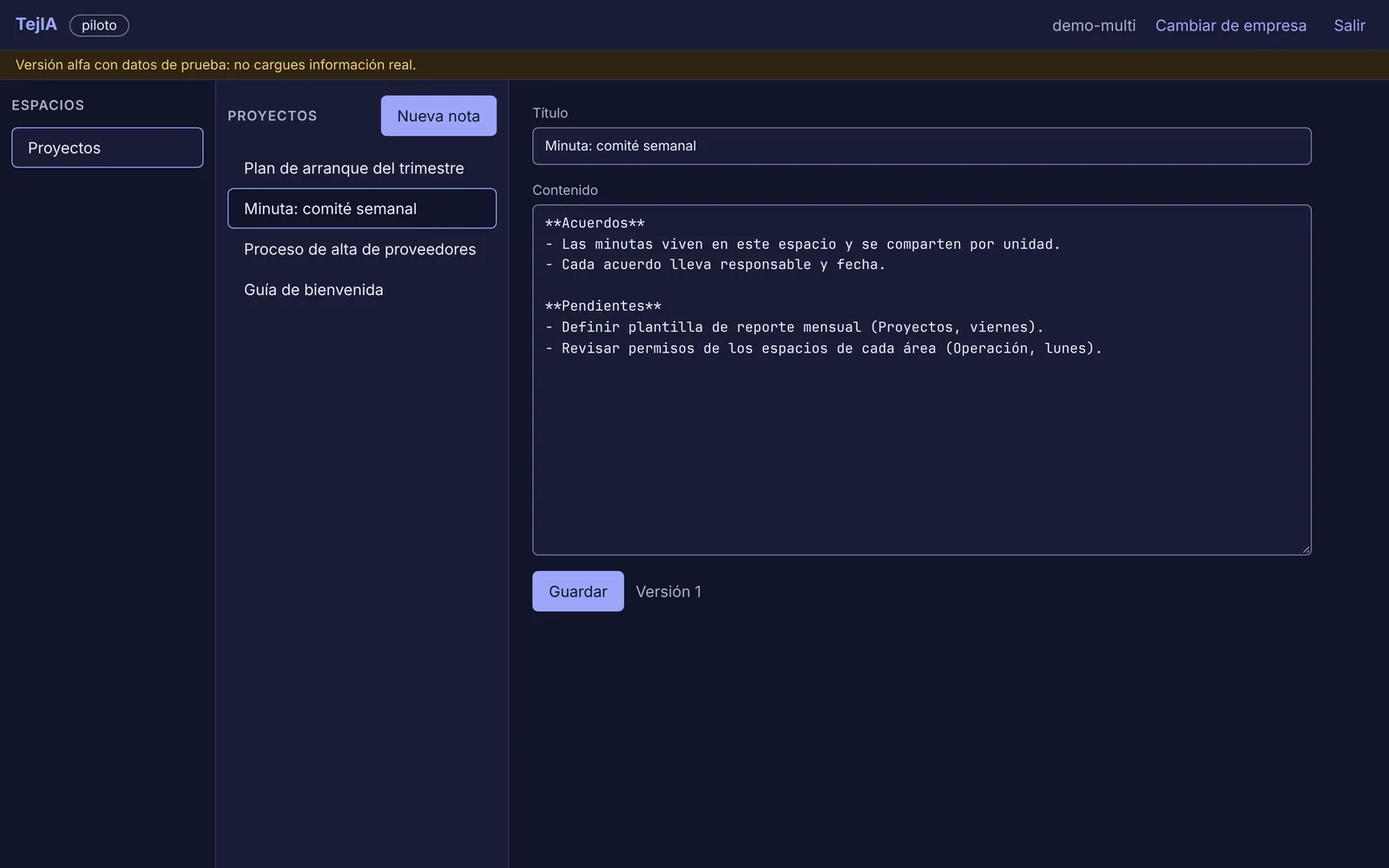
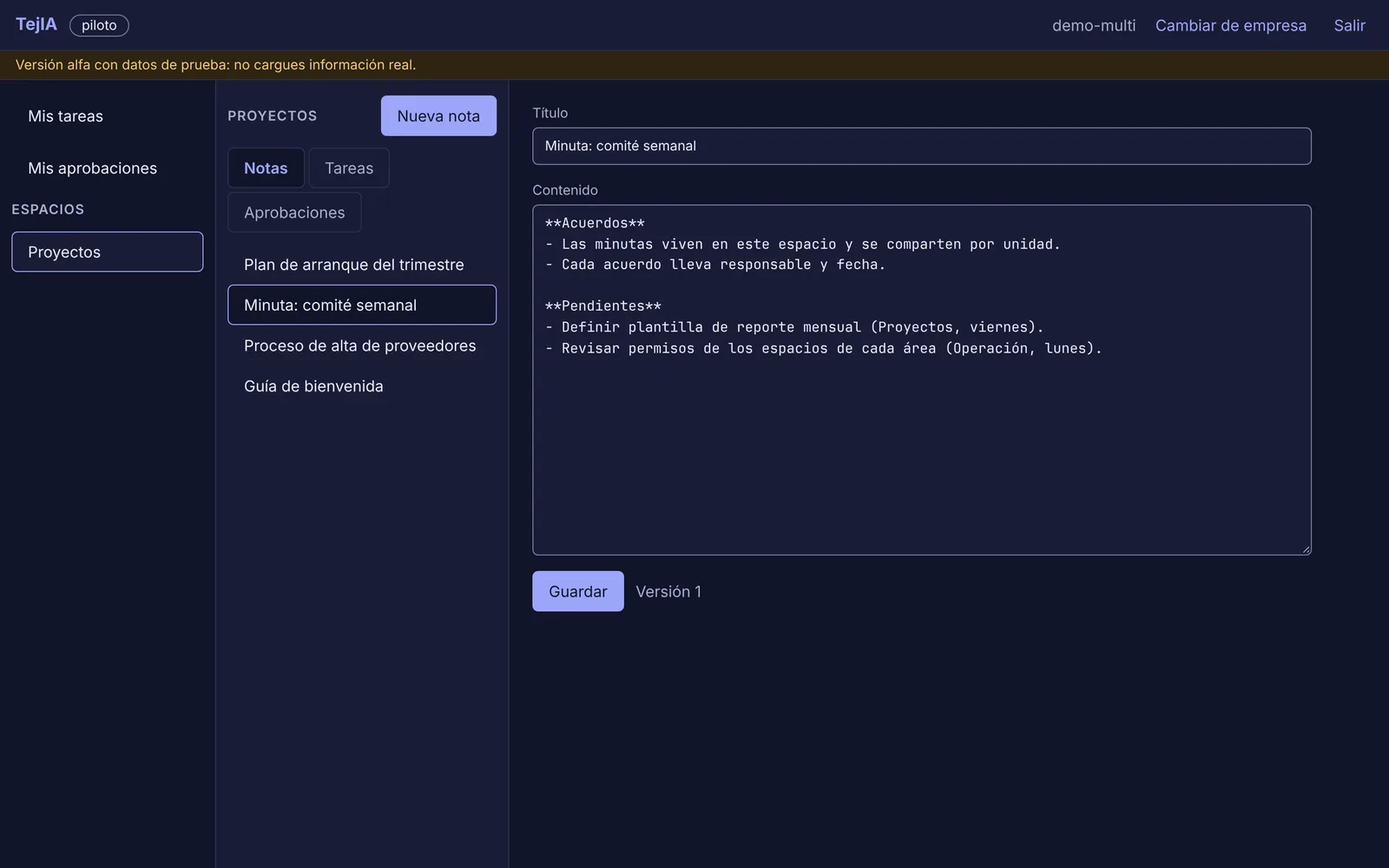
Sitio desde tejia@c48257e

diff --git a/index.html b/index.html
@@ -3,12 +3,12 @@
 <head>
 <meta charset="utf-8">
 <meta name="viewport" content="width=device-width, initial-scale=1">
-<title>TejIA · documentos, conversaciones y decisiones de tu empresa, con un mismo permiso</title>
-<meta name="description" content="TejIA reúne documentos, conversaciones, aprobaciones y datos del equipo bajo los mismos permisos. En alfa: notas con permisos por persona, grupo y unidad, en la computadora y el celular.">
+<title>TejIA · documentos, tareas, aprobaciones y personas de tu empresa, con un mismo permiso</title>
+<meta name="description" content="TejIA reúne documentos, tareas, aprobaciones y personas del equipo bajo los mismos permisos. En alfa: notas, tareas, aprobaciones en orden y directorio con nombres, en la computadora y el celular.">
 <meta name="theme-color" content="#2E3A8C">
 <meta property="og:title" content="TejIA">
-<meta property="og:description" content="Documentos, conversaciones, aprobaciones y datos de tu empresa, con un mismo permiso.">
-<meta property="og:image" content="https://tejia.mx/img/escritorio.webp">
+<meta property="og:description" content="Documentos, tareas, aprobaciones y personas de tu empresa, con un mismo permiso.">
+<meta property="og:image" content="https://tejia.mx/img/escritorio-aprobaciones.webp">
 <meta property="og:url" content="https://tejia.mx/">
 <meta http-equiv="Content-Security-Policy" content="default-src 'self'; img-src 'self'; style-src 'self'; script-src 'none'; base-uri 'none'; form-action 'none'">
 <meta name="referrer" content="no-referrer">
@@ -21,7 +21,7 @@
 <header class="barra">
   <a class="marca" href="./"><img src="img/tejia.svg" alt="" width="28" height="28"> TejIA</a>
   <nav aria-label="Secciones">
-    <a href="#hoy">Hoy</a><a href="#despues">Lo que sigue</a><a href="#cuidado">Tu información</a><a href="#descarga">Dónde se usa</a>
+    <a href="#hoy">Lo que ya funciona</a><a href="#despues">Lo que sigue</a><a href="#cuidado">Tu información</a><a href="#descarga">Dónde se usa</a>
   </nav>
 </header>
 
@@ -30,71 +30,83 @@
   <div class="portada-texto">
     <p class="ceja">Suite de trabajo · hecha en México</p>
     <h1>Tu empresa, <em>tejida</em> en un solo lugar.</h1>
-    <p class="entrada">TejIA reúne documentos, conversaciones, aprobaciones y datos del equipo bajo los mismos permisos. Lo que compartes en un lugar se respeta en todos; lo que retiras deja de verse en la siguiente consulta.</p>
-    <p class="estado"><span class="sello">Alfa</span> Hoy funciona la base: notas con permisos por persona, grupo y unidad, en la computadora y el celular. Hoy es de uso interno, en prueba; todavía no hay servicio abierto.</p>
+    <p class="entrada">TejIA reúne los documentos, las tareas, las aprobaciones y las personas de tu equipo bajo los mismos permisos. Lo que compartes en un lugar se respeta en todos, y en cuanto le quitas el acceso a alguien, deja de verlo.</p>
+    <p class="estado"><span class="sello">Alfa</span> Hoy funcionan notas, tareas, aprobaciones paso a paso y el directorio de la empresa, en la computadora y el celular. Es de uso interno, en prueba; todavía no hay servicio abierto.</p>
   </div>
-  <svg class="telar" viewBox="0 0 560 330" role="img" aria-labelledby="telar-t telar-d"><title id="telar-t">Telar de TejIA</title><desc id="telar-d">Cinco hilos horizontales, uno por área (documentos, conversaciones, aprobaciones, datos y personas), entretejidos con hilos verticales de permisos que pasan por encima y por debajo de todos.</desc>
-<text x="136" y="45" text-anchor="end" class="telar-etiqueta">Documentos</text>
-<line x1="150" y1="40" x2="540" y2="40" stroke="#2A6E8A" class="urdimbre"/>
-<text x="136" y="105" text-anchor="end" class="telar-etiqueta">Conversaciones</text>
-<line x1="150" y1="100" x2="540" y2="100" stroke="#B3244A" class="urdimbre"/>
-<text x="136" y="165" text-anchor="end" class="telar-etiqueta">Aprobaciones</text>
-<line x1="150" y1="160" x2="540" y2="160" stroke="#9A6410" class="urdimbre"/>
-<text x="136" y="225" text-anchor="end" class="telar-etiqueta">Datos</text>
-<line x1="150" y1="220" x2="540" y2="220" stroke="#3F7354" class="urdimbre"/>
-<text x="136" y="285" text-anchor="end" class="telar-etiqueta">Personas</text>
-<line x1="150" y1="280" x2="540" y2="280" stroke="#6A4C9C" class="urdimbre"/>
-<line x1="180" y1="14" x2="180" y2="306" class="trama t0"/>
-<line x1="232" y1="14" x2="232" y2="306" class="trama t1"/>
-<line x1="284" y1="14" x2="284" y2="306" class="trama t2"/>
-<line x1="336" y1="14" x2="336" y2="306" class="trama t3"/>
-<line x1="388" y1="14" x2="388" y2="306" class="trama t4"/>
-<line x1="440" y1="14" x2="440" y2="306" class="trama t5"/>
-<line x1="492" y1="14" x2="492" y2="306" class="trama t6"/>
-<line x1="544" y1="14" x2="544" y2="306" class="trama t7"/>
+  <svg class="telar" viewBox="0 0 560 362" role="img" aria-labelledby="telar-t telar-d"><title id="telar-t">Telar de TejIA</title><desc id="telar-d">Seis hilos horizontales, uno por área, cruzados por hilos verticales: los permisos. Documentos, tareas, aprobaciones y personas ya están entretejidos con los hilos verticales de permisos; conversaciones y datos todavía pasan sueltos por debajo, punteados: están por tejerse.</desc>
+<text x="136" y="39" text-anchor="end" class="telar-etiqueta">Documentos</text>
+<line x1="150" y1="34" x2="540" y2="34" stroke="#2A6E8A" class="urdimbre"/>
+<text x="136" y="89" text-anchor="end" class="telar-etiqueta">Tareas</text>
+<line x1="150" y1="84" x2="540" y2="84" stroke="#2E3A8C" class="urdimbre"/>
+<text x="136" y="139" text-anchor="end" class="telar-etiqueta">Aprobaciones</text>
+<line x1="150" y1="134" x2="540" y2="134" stroke="#9A6410" class="urdimbre"/>
+<text x="136" y="189" text-anchor="end" class="telar-etiqueta">Personas</text>
+<line x1="150" y1="184" x2="540" y2="184" stroke="#6A4C9C" class="urdimbre"/>
+<text x="136" y="239" text-anchor="end" class="telar-etiqueta por-tejer">Conversaciones</text>
+<line x1="150" y1="234" x2="540" y2="234" stroke="#B3244A" class="urdimbre suelta"/>
+<text x="136" y="289" text-anchor="end" class="telar-etiqueta por-tejer">Datos</text>
+<line x1="150" y1="284" x2="540" y2="284" stroke="#3F7354" class="urdimbre suelta"/>
+<line x1="180" y1="12" x2="180" y2="306" class="trama t0"/>
+<line x1="232" y1="12" x2="232" y2="306" class="trama t1"/>
+<line x1="284" y1="12" x2="284" y2="306" class="trama t2"/>
+<line x1="336" y1="12" x2="336" y2="306" class="trama t3"/>
+<line x1="388" y1="12" x2="388" y2="306" class="trama t4"/>
+<line x1="440" y1="12" x2="440" y2="306" class="trama t5"/>
+<line x1="492" y1="12" x2="492" y2="306" class="trama t6"/>
+<line x1="544" y1="12" x2="544" y2="306" class="trama t7"/>
+<text x="362" y="8" text-anchor="middle" class="telar-etiqueta telar-permisos">permisos ↓</text>
 <g class="cruces">
-<line x1="169" y1="40" x2="191" y2="40" class="halo-h"/><line x1="169" y1="40" x2="191" y2="40" stroke="#2A6E8A" class="urdimbre"/>
-<line x1="232" y1="29" x2="232" y2="51" class="halo-v"/><line x1="232" y1="29" x2="232" y2="51" class="trama-cruce"/>
-<line x1="273" y1="40" x2="295" y2="40" class="halo-h"/><line x1="273" y1="40" x2="295" y2="40" stroke="#2A6E8A" class="urdimbre"/>
-<line x1="336" y1="29" x2="336" y2="51" class="halo-v"/><line x1="336" y1="29" x2="336" y2="51" class="trama-cruce"/>
-<line x1="377" y1="40" x2="399" y2="40" class="halo-h"/><line x1="377" y1="40" x2="399" y2="40" stroke="#2A6E8A" class="urdimbre"/>
-<line x1="440" y1="29" x2="440" y2="51" class="halo-v"/><line x1="440" y1="29" x2="440" y2="51" class="trama-cruce"/>
-<line x1="481" y1="40" x2="503" y2="40" class="halo-h"/><line x1="481" y1="40" x2="503" y2="40" stroke="#2A6E8A" class="urdimbre"/>
-<line x1="544" y1="29" x2="544" y2="51" class="halo-v"/><line x1="544" y1="29" x2="544" y2="51" class="trama-cruce"/>
-<line x1="180" y1="89" x2="180" y2="111" class="halo-v"/><line x1="180" y1="89" x2="180" y2="111" class="trama-cruce"/>
-<line x1="221" y1="100" x2="243" y2="100" class="halo-h"/><line x1="221" y1="100" x2="243" y2="100" stroke="#B3244A" class="urdimbre"/>
-<line x1="284" y1="89" x2="284" y2="111" class="halo-v"/><line x1="284" y1="89" x2="284" y2="111" class="trama-cruce"/>
-<line x1="325" y1="100" x2="347" y2="100" class="halo-h"/><line x1="325" y1="100" x2="347" y2="100" stroke="#B3244A" class="urdimbre"/>
-<line x1="388" y1="89" x2="388" y2="111" class="halo-v"/><line x1="388" y1="89" x2="388" y2="111" class="trama-cruce"/>
-<line x1="429" y1="100" x2="451" y2="100" class="halo-h"/><line x1="429" y1="100" x2="451" y2="100" stroke="#B3244A" class="urdimbre"/>
-<line x1="492" y1="89" x2="492" y2="111" class="halo-v"/><line x1="492" y1="89" x2="492" y2="111" class="trama-cruce"/>
-<line x1="533" y1="100" x2="555" y2="100" class="halo-h"/><line x1="533" y1="100" x2="555" y2="100" stroke="#B3244A" class="urdimbre"/>
-<line x1="169" y1="160" x2="191" y2="160" class="halo-h"/><line x1="169" y1="160" x2="191" y2="160" stroke="#9A6410" class="urdimbre"/>
-<line x1="232" y1="149" x2="232" y2="171" class="halo-v"/><line x1="232" y1="149" x2="232" y2="171" class="trama-cruce"/>
-<line x1="273" y1="160" x2="295" y2="160" class="halo-h"/><line x1="273" y1="160" x2="295" y2="160" stroke="#9A6410" class="urdimbre"/>
-<line x1="336" y1="149" x2="336" y2="171" class="halo-v"/><line x1="336" y1="149" x2="336" y2="171" class="trama-cruce"/>
-<line x1="377" y1="160" x2="399" y2="160" class="halo-h"/><line x1="377" y1="160" x2="399" y2="160" stroke="#9A6410" class="urdimbre"/>
-<line x1="440" y1="149" x2="440" y2="171" class="halo-v"/><line x1="440" y1="149" x2="440" y2="171" class="trama-cruce"/>
-<line x1="481" y1="160" x2="503" y2="160" class="halo-h"/><line x1="481" y1="160" x2="503" y2="160" stroke="#9A6410" class="urdimbre"/>
-<line x1="544" y1="149" x2="544" y2="171" class="halo-v"/><line x1="544" y1="149" x2="544" y2="171" class="trama-cruce"/>
-<line x1="180" y1="209" x2="180" y2="231" class="halo-v"/><line x1="180" y1="209" x2="180" y2="231" class="trama-cruce"/>
-<line x1="221" y1="220" x2="243" y2="220" class="halo-h"/><line x1="221" y1="220" x2="243" y2="220" stroke="#3F7354" class="urdimbre"/>
-<line x1="284" y1="209" x2="284" y2="231" class="halo-v"/><line x1="284" y1="209" x2="284" y2="231" class="trama-cruce"/>
-<line x1="325" y1="220" x2="347" y2="220" class="halo-h"/><line x1="325" y1="220" x2="347" y2="220" stroke="#3F7354" class="urdimbre"/>
-<line x1="388" y1="209" x2="388" y2="231" class="halo-v"/><line x1="388" y1="209" x2="388" y2="231" class="trama-cruce"/>
-<line x1="429" y1="220" x2="451" y2="220" class="halo-h"/><line x1="429" y1="220" x2="451" y2="220" stroke="#3F7354" class="urdimbre"/>
-<line x1="492" y1="209" x2="492" y2="231" class="halo-v"/><line x1="492" y1="209" x2="492" y2="231" class="trama-cruce"/>
-<line x1="533" y1="220" x2="555" y2="220" class="halo-h"/><line x1="533" y1="220" x2="555" y2="220" stroke="#3F7354" class="urdimbre"/>
-<line x1="169" y1="280" x2="191" y2="280" class="halo-h"/><line x1="169" y1="280" x2="191" y2="280" stroke="#6A4C9C" class="urdimbre"/>
-<line x1="232" y1="269" x2="232" y2="291" class="halo-v"/><line x1="232" y1="269" x2="232" y2="291" class="trama-cruce"/>
-<line x1="273" y1="280" x2="295" y2="280" class="halo-h"/><line x1="273" y1="280" x2="295" y2="280" stroke="#6A4C9C" class="urdimbre"/>
-<line x1="336" y1="269" x2="336" y2="291" class="halo-v"/><line x1="336" y1="269" x2="336" y2="291" class="trama-cruce"/>
-<line x1="377" y1="280" x2="399" y2="280" class="halo-h"/><line x1="377" y1="280" x2="399" y2="280" stroke="#6A4C9C" class="urdimbre"/>
-<line x1="440" y1="269" x2="440" y2="291" class="halo-v"/><line x1="440" y1="269" x2="440" y2="291" class="trama-cruce"/>
-<line x1="481" y1="280" x2="503" y2="280" class="halo-h"/><line x1="481" y1="280" x2="503" y2="280" stroke="#6A4C9C" class="urdimbre"/>
-<line x1="544" y1="269" x2="544" y2="291" class="halo-v"/><line x1="544" y1="269" x2="544" y2="291" class="trama-cruce"/>
+<line x1="169" y1="34" x2="191" y2="34" class="halo-h"/><line x1="169" y1="34" x2="191" y2="34" stroke="#2A6E8A" class="urdimbre"/>
+<line x1="232" y1="23" x2="232" y2="45" class="halo-v"/><line x1="232" y1="23" x2="232" y2="45" class="trama-cruce"/>
+<line x1="273" y1="34" x2="295" y2="34" class="halo-h"/><line x1="273" y1="34" x2="295" y2="34" stroke="#2A6E8A" class="urdimbre"/>
+<line x1="336" y1="23" x2="336" y2="45" class="halo-v"/><line x1="336" y1="23" x2="336" y2="45" class="trama-cruce"/>
+<line x1="377" y1="34" x2="399" y2="34" class="halo-h"/><line x1="377" y1="34" x2="399" y2="34" stroke="#2A6E8A" class="urdimbre"/>
+<line x1="440" y1="23" x2="440" y2="45" class="halo-v"/><line x1="440" y1="23" x2="440" y2="45" class="trama-cruce"/>
+<line x1="481" y1="34" x2="503" y2="34" class="halo-h"/><line x1="481" y1="34" x2="503" y2="34" stroke="#2A6E8A" class="urdimbre"/>
+<line x1="544" y1="23" x2="544" y2="45" class="halo-v"/><line x1="544" y1="23" x2="544" y2="45" class="trama-cruce"/>
+<line x1="180" y1="73" x2="180" y2="95" class="halo-v"/><line x1="180" y1="73" x2="180" y2="95" class="trama-cruce"/>
+<line x1="221" y1="84" x2="243" y2="84" class="halo-h"/><line x1="221" y1="84" x2="243" y2="84" stroke="#2E3A8C" class="urdimbre"/>
+<line x1="284" y1="73" x2="284" y2="95" class="halo-v"/><line x1="284" y1="73" x2="284" y2="95" class="trama-cruce"/>
+<line x1="325" y1="84" x2="347" y2="84" class="halo-h"/><line x1="325" y1="84" x2="347" y2="84" stroke="#2E3A8C" class="urdimbre"/>
+<line x1="388" y1="73" x2="388" y2="95" class="halo-v"/><line x1="388" y1="73" x2="388" y2="95" class="trama-cruce"/>
+<line x1="429" y1="84" x2="451" y2="84" class="halo-h"/><line x1="429" y1="84" x2="451" y2="84" stroke="#2E3A8C" class="urdimbre"/>
+<line x1="492" y1="73" x2="492" y2="95" class="halo-v"/><line x1="492" y1="73" x2="492" y2="95" class="trama-cruce"/>
+<line x1="533" y1="84" x2="555" y2="84" class="halo-h"/><line x1="533" y1="84" x2="555" y2="84" stroke="#2E3A8C" class="urdimbre"/>
+<line x1="169" y1="134" x2="191" y2="134" class="halo-h"/><line x1="169" y1="134" x2="191" y2="134" stroke="#9A6410" class="urdimbre"/>
+<line x1="232" y1="123" x2="232" y2="145" class="halo-v"/><line x1="232" y1="123" x2="232" y2="145" class="trama-cruce"/>
+<line x1="273" y1="134" x2="295" y2="134" class="halo-h"/><line x1="273" y1="134" x2="295" y2="134" stroke="#9A6410" class="urdimbre"/>
+<line x1="336" y1="123" x2="336" y2="145" class="halo-v"/><line x1="336" y1="123" x2="336" y2="145" class="trama-cruce"/>
+<line x1="377" y1="134" x2="399" y2="134" class="halo-h"/><line x1="377" y1="134" x2="399" y2="134" stroke="#9A6410" class="urdimbre"/>
+<line x1="440" y1="123" x2="440" y2="145" class="halo-v"/><line x1="440" y1="123" x2="440" y2="145" class="trama-cruce"/>
+<line x1="481" y1="134" x2="503" y2="134" class="halo-h"/><line x1="481" y1="134" x2="503" y2="134" stroke="#9A6410" class="urdimbre"/>
+<line x1="544" y1="123" x2="544" y2="145" class="halo-v"/><line x1="544" y1="123" x2="544" y2="145" class="trama-cruce"/>
+<line x1="180" y1="173" x2="180" y2="195" class="halo-v"/><line x1="180" y1="173" x2="180" y2="195" class="trama-cruce"/>
+<line x1="221" y1="184" x2="243" y2="184" class="halo-h"/><line x1="221" y1="184" x2="243" y2="184" stroke="#6A4C9C" class="urdimbre"/>
+<line x1="284" y1="173" x2="284" y2="195" class="halo-v"/><line x1="284" y1="173" x2="284" y2="195" class="trama-cruce"/>
+<line x1="325" y1="184" x2="347" y2="184" class="halo-h"/><line x1="325" y1="184" x2="347" y2="184" stroke="#6A4C9C" class="urdimbre"/>
+<line x1="388" y1="173" x2="388" y2="195" class="halo-v"/><line x1="388" y1="173" x2="388" y2="195" class="trama-cruce"/>
+<line x1="429" y1="184" x2="451" y2="184" class="halo-h"/><line x1="429" y1="184" x2="451" y2="184" stroke="#6A4C9C" class="urdimbre"/>
+<line x1="492" y1="173" x2="492" y2="195" class="halo-v"/><line x1="492" y1="173" x2="492" y2="195" class="trama-cruce"/>
+<line x1="533" y1="184" x2="555" y2="184" class="halo-h"/><line x1="533" y1="184" x2="555" y2="184" stroke="#6A4C9C" class="urdimbre"/>
+<line x1="180" y1="223" x2="180" y2="245" class="halo-v"/><line x1="180" y1="223" x2="180" y2="245" class="trama-cruce"/>
+<line x1="232" y1="223" x2="232" y2="245" class="halo-v"/><line x1="232" y1="223" x2="232" y2="245" class="trama-cruce"/>
+<line x1="284" y1="223" x2="284" y2="245" class="halo-v"/><line x1="284" y1="223" x2="284" y2="245" class="trama-cruce"/>
+<line x1="336" y1="223" x2="336" y2="245" class="halo-v"/><line x1="336" y1="223" x2="336" y2="245" class="trama-cruce"/>
+<line x1="388" y1="223" x2="388" y2="245" class="halo-v"/><line x1="388" y1="223" x2="388" y2="245" class="trama-cruce"/>
+<line x1="440" y1="223" x2="440" y2="245" class="halo-v"/><line x1="440" y1="223" x2="440" y2="245" class="trama-cruce"/>
+<line x1="492" y1="223" x2="492" y2="245" class="halo-v"/><line x1="492" y1="223" x2="492" y2="245" class="trama-cruce"/>
+<line x1="544" y1="223" x2="544" y2="245" class="halo-v"/><line x1="544" y1="223" x2="544" y2="245" class="trama-cruce"/>
+<line x1="180" y1="273" x2="180" y2="295" class="halo-v"/><line x1="180" y1="273" x2="180" y2="295" class="trama-cruce"/>
+<line x1="232" y1="273" x2="232" y2="295" class="halo-v"/><line x1="232" y1="273" x2="232" y2="295" class="trama-cruce"/>
+<line x1="284" y1="273" x2="284" y2="295" class="halo-v"/><line x1="284" y1="273" x2="284" y2="295" class="trama-cruce"/>
+<line x1="336" y1="273" x2="336" y2="295" class="halo-v"/><line x1="336" y1="273" x2="336" y2="295" class="trama-cruce"/>
+<line x1="388" y1="273" x2="388" y2="295" class="halo-v"/><line x1="388" y1="273" x2="388" y2="295" class="trama-cruce"/>
+<line x1="440" y1="273" x2="440" y2="295" class="halo-v"/><line x1="440" y1="273" x2="440" y2="295" class="trama-cruce"/>
+<line x1="492" y1="273" x2="492" y2="295" class="halo-v"/><line x1="492" y1="273" x2="492" y2="295" class="trama-cruce"/>
+<line x1="544" y1="273" x2="544" y2="295" class="halo-v"/><line x1="544" y1="273" x2="544" y2="295" class="trama-cruce"/>
 </g>
-<text x="362.0" y="326" text-anchor="middle" class="telar-pie">un mismo permiso atraviesa todo</text></svg>
+<g class="telar-leyenda" aria-hidden="true"><line x1="150" y1="342" x2="178" y2="342" stroke="currentColor" class="ley-tejido"/><text x="186" y="346">ya funciona</text><line x1="300" y1="342" x2="328" y2="342" stroke="currentColor" class="ley-suelto"/><text x="336" y="346">por tejer</text></g>
+</svg>
 </section>
 
 <section id="hoy" class="hoy">
@@ -102,7 +114,13 @@
     <h2>Lo que ya funciona</h2>
     <p>Capturas reales de la versión alfa, con datos de prueba.</p>
   </div>
-  <div class="vitrina">
+
+  <article class="hilo-app c-mar">
+    <div class="hilo-texto">
+      <p class="hilo-nombre">Documentos</p>
+      <h3>Espacios y notas que no pierden nada</h3>
+      <p>Cada área tiene sus espacios, como carpetas compartidas. Cada nota guarda sus versiones y, si alguien más la cambia mientras escribes, te avisa sin borrar tu texto.</p>
+    </div>
     <figure class="ventana">
       <div class="ventana-barra" aria-hidden="true"><i></i><i></i><i></i></div>
       <picture>
@@ -110,14 +128,47 @@
         <img src="img/escritorio.webp" width="1600" height="1000" loading="lazy" alt="TejIA en la computadora: a la izquierda los espacios, al centro las notas del espacio Proyectos y a la derecha el plan de arranque del trimestre abierto para editar.">
       </picture>
     </figure>
-    <figure class="telefono">
-      <img src="img/celular-nota.webp" width="780" height="1688" loading="lazy" alt="TejIA en el celular: una minuta abierta, con el botón para volver y la barra inferior de Notas y Cuenta.">
+  </article>
+
+  <article class="hilo-app invertido c-anil">
+    <div class="hilo-texto">
+      <p class="hilo-nombre">Tareas</p>
+      <h3>Lo que te toca, de todos tus espacios</h3>
+      <p>Crea tareas en el espacio que corresponde, con fecha límite, para ti o para alguien del equipo. «Mis tareas» junta lo pendiente de todos tus espacios y lo marcas hecho con un clic.</p>
+    </div>
+    <figure class="ventana">
+      <div class="ventana-barra" aria-hidden="true"><i></i><i></i><i></i></div>
+      <picture>
+        <source srcset="img/escritorio-tareas-oscuro.webp" media="(prefers-color-scheme: dark)">
+        <img src="img/escritorio-tareas.webp" width="1600" height="622" loading="lazy" alt="«Mis tareas» en la computadora: tres tareas pendientes, dos con fecha límite, y las pestañas Pendientes y Hechas.">
+      </picture>
     </figure>
-  </div>
+  </article>
+
+  <article class="hilo-app con-telefono c-ocre">
+    <div class="hilo-texto">
+      <p class="hilo-nombre">Aprobaciones</p>
+      <h3>Pide, aprueba y deja constancia</h3>
+      <p>Una solicitud pasa por una a cinco personas en el orden que elijas, con monto en pesos si hace falta. Cada quien aprueba su paso o lo rechaza con un comentario. Lo pedido y lo decidido ya no se puede reescribir: para corregir, se cancela y se pide de nuevo.</p>
+    </div>
+    <div class="vitrina">
+      <figure class="ventana">
+        <div class="ventana-barra" aria-hidden="true"><i></i><i></i><i></i></div>
+        <picture>
+          <source srcset="img/escritorio-aprobaciones-oscuro.webp" media="(prefers-color-scheme: dark)">
+          <img src="img/escritorio-aprobaciones.webp" width="1600" height="1000" loading="lazy" alt="«Por aprobar» en la computadora: tres solicitudes pendientes pedidas por Ana Demo, dos con monto en pesos, cada una con su comentario y los botones Aprobar y Rechazar.">
+        </picture>
+      </figure>
+      <figure class="telefono">
+        <img src="img/celular-aprobaciones.webp" width="780" height="1688" loading="lazy" alt="Las mismas solicitudes por aprobar en el celular.">
+      </figure>
+    </div>
+  </article>
+
   <ul class="hechos">
-    <li><h3>Espacios y notas</h3><p>Cada área tiene sus espacios; cada nota guarda versiones y avisa si alguien más la cambió mientras escribías, sin perder tu texto.</p></li>
-    <li><h3>Permisos que se heredan</h3><p>Un espacio o una nota se comparte con una persona, un grupo, una unidad o toda la empresa: lectura, comentarios, edición o administración. Hoy se comparte desde la API; en la app llega con la wiki.</p></li>
-    <li><h3>Varias empresas, una cuenta</h3><p>Quien trabaja en más de una empresa elige en cuál entrar; lo de una nunca aparece en la otra.</p></li>
+    <li class="c-uva"><h3>Personas por su nombre</h3><p>Eliges a quién asignar o quién aprueba buscando su nombre, con o sin acentos. Solo aparecen quienes pueden ver ese espacio.</p></li>
+    <li class="c-anil"><h3>Permisos que se heredan</h3><p>Un espacio o una nota se comparte con una persona, un grupo, un área o toda la empresa, para leer, comentar, editar o administrar. Por ahora los permisos los configura el equipo técnico; compartir desde la app llega con la wiki.</p></li>
+    <li class="c-mar"><h3>Varias empresas, una cuenta</h3><p>Si trabajas para varias empresas o razones sociales, eliges en cuál entrar; lo de una nunca aparece en la otra.</p></li>
   </ul>
 </section>
 
@@ -127,29 +178,31 @@
     <p>Todo sobre los mismos permisos. El orden puede cambiar con lo que pidan los equipos que lo usan.</p>
   </div>
   <ol class="hilos">
-    <li class="h-anil"><span class="etapa siguiente">Lo siguiente</span><h3>Wiki con búsqueda</h3><p>Páginas con historial y una búsqueda que entiende el significado, pensada para calcularse en tus propios servidores, sin mandar tus textos a terceros.</p></li>
-    <li class="h-ocre"><span class="etapa">Planeado</span><h3>Aprobaciones</h3><p>Flujos de autorización con formularios, avisos por correo y WhatsApp, y lectura de facturas CFDI con validación ante el SAT.</p></li>
-    <li class="h-mar"><span class="etapa">Planeado</span><h3>Documentos, hojas, PDF y firmas</h3><p>Edición entre varios a la vez, hojas con fórmulas, anotar y firmar PDF, e ida y vuelta con archivos de Office.</p></li>
-    <li class="h-grana"><span class="etapa">Planeado</span><h3>Chat y reuniones</h3><p>Conversaciones donde compartir un documento da acceso y retirarlo lo quita; reuniones con transcripción en español.</p></li>
-    <li class="h-musgo"><span class="etapa">Planeado</span><h3>Datos y tableros</h3><p>Tablas con permiso por campo, automatizaciones y tableros en vivo, también dentro de los documentos.</p></li>
-    <li class="h-uva"><span class="etapa">Planeado</span><h3>Agentes</h3><p>Asistentes que trabajan con los permisos de quien los usa, nunca con más; cada empresa decide qué modelos se permiten.</p></li>
+    <li class="c-mar"><span class="etapa siguiente">Lo siguiente</span><h3>Documentos entre varios a la vez</h3><p>Editar el mismo documento al mismo tiempo, con historial y comentarios. Es también el editor de la wiki.</p></li>
+    <li class="c-anil"><span class="etapa">Planeado</span><h3>Wiki con búsqueda</h3><p>Páginas con historial y una búsqueda que entiende el significado, pensada para calcularse en tus propios servidores, sin mandar tus textos a terceros.</p></li>
+    <li class="c-musgo"><span class="etapa">Planeado</span><h3>Hojas de cálculo</h3><p>Hojas con fórmulas, calculadas en el servidor, con permisos por rango e ida y vuelta con archivos .xlsx.</p></li>
+    <li class="c-grana"><span class="etapa">Planeado</span><h3>Chat y reuniones</h3><p>Conversaciones donde compartir un documento da acceso y retirarlo lo quita; reuniones con transcripción en español.</p></li>
+    <li class="c-ocre"><span class="etapa">Planeado</span><h3>Aprobaciones con formularios</h3><p>Formularios por tipo de solicitud, avisos y lectura de facturas CFDI con validación ante el SAT.</p></li>
+    <li class="c-uva"><span class="etapa">Planeado</span><h3>PDF, firmas y datos</h3><p>Anotar y firmar PDF, tablas con permiso por campo y tableros en vivo, también dentro de los documentos.</p></li>
   </ol>
 </section>
 
 <section id="cuidado" class="cuidado">
   <h2>Tu información, en su lugar</h2>
   <dl>
-    <div><dt>Cada empresa ve solo lo suyo</dt><dd>La separación la impone la base de datos, no solo la aplicación, y una prueba automática intenta cada operación con datos de otra empresa.</dd></div>
-    <div><dt>Retirar un permiso cuenta desde la siguiente consulta</dt><dd>Lo que no puedes ver no existe para ti: ni el título aparece en las listas.</dd></div>
-    <div><dt>Todo deja rastro</dt><dd>Cada cambio a notas y permisos se registra en una bitácora que la aplicación no puede editar ni borrar, y que se puede verificar completa.</dd></div>
-    <div><dt>Tu sesión, fuera del alcance de la página</dt><dd>En la app de escritorio, las credenciales viven solo en el proceso principal; la ventana nunca las ve.</dd></div>
+    <div><dt>Cada empresa ve solo lo suyo</dt><dd>La separación la impone la base de datos, no solo la aplicación, y una prueba automática intenta las operaciones con datos de otra empresa.</dd></div>
+    <div><dt>Quitar un acceso surte efecto de inmediato</dt><dd>Lo que no puedes ver no existe para ti: ni el título aparece en las listas.</dd></div>
+    <div><dt>Una aprobación no se reescribe</dt><dd>Lo pedido, el orden de las personas y cada decisión tomada quedan fijos: la base de datos rechaza reescribirlos.</dd></div>
+    <div><dt>Asistentes de IA con dos llaves</dt><dd>Un asistente solo hace lo que tú puedes hacer y lo que una persona administradora autorizó, nunca más. Hoy los conecta el equipo técnico.</dd></div>
+    <div><dt>Todo deja rastro</dt><dd>Los cambios se registran en una bitácora que la aplicación no puede editar ni borrar, y que se puede verificar.</dd></div>
+    <div><dt>Tu sesión, protegida en la app</dt><dd>En la app de escritorio, tu sesión no queda al alcance de las páginas que abres dentro de ella.</dd></div>
   </dl>
 </section>
 
 <section id="descarga" class="descarga">
   <h2>En la computadora y en el celular</h2>
   <div class="plataformas">
-    <p><strong>Linux, Windows y Mac</strong> — app de escritorio, en prueba interna. Entras con tu navegador de siempre y vuelves a la app.</p>
+    <p><strong>Computadora</strong> — app de escritorio para Linux, en prueba interna; las de Windows y Mac están en preparación. Inicias sesión en tu navegador y la app se abre ya conectada.</p>
     <p><strong>Celular</strong> — se instala desde el navegador, con pantalla adaptada; en el teléfono solo se guarda la interfaz, no tus datos.</p>
   </div>
   <p class="acceso">Por ahora TejIA está en alfa, en uso interno de prueba.</p>

diff --git a/estilos.css b/estilos.css
@@ -45,8 +45,15 @@ p { margin: 0; }
 .portada { display: grid; grid-template-columns: minmax(0, 1.05fr) minmax(0, 1fr); gap: clamp(2rem, 5vw, 4rem); align-items: center; min-height: min(78vh, 46rem); }
 .telar { width: 100%; height: auto; overflow: visible; }
 .telar-etiqueta { font: 500 13px var(--mono); fill: var(--tenue); }
-.telar-pie { font: italic 15px var(--serif); fill: var(--tenue); }
+.telar-etiqueta.por-tejer { opacity: 0.7; }
+.telar-permisos { letter-spacing: 0.06em; }
 .urdimbre { stroke-width: 7; stroke-linecap: round; }
+/* Lo que falta tejer pasa suelto por debajo de la trama, punteado: la firma dice qué ya funciona. */
+.urdimbre.suelta { stroke-width: 5; stroke-dasharray: 1 11; opacity: 0.75; }
+.telar-leyenda { color: var(--tenue); font: 500 12px var(--mono); }
+.telar-leyenda text { fill: var(--tenue); }
+.ley-tejido { stroke-width: 6; stroke-linecap: round; }
+.ley-suelto { stroke-width: 4; stroke-linecap: round; stroke-dasharray: 1 8; }
 .trama, .trama-cruce { stroke: var(--tinta); stroke-width: 4; stroke-linecap: round; }
 .trama-cruce { stroke-linecap: butt; }
 .halo-h { stroke: var(--papel); stroke-width: 13; stroke-linecap: butt; }
@@ -71,6 +78,26 @@ p { margin: 0; }
 .encabezado { display: flex; justify-content: space-between; align-items: baseline; gap: 1rem 2rem; flex-wrap: wrap; margin-bottom: 2.5rem; }
 .encabezado p { color: var(--tenue); max-width: 30rem; }
 
+/* Colores de hilo: los mismos del telar, para que cada app continúe su hilo. */
+.c-mar { --c: #2A6E8A; } .c-anil { --c: #2E3A8C; } .c-ocre { --c: #9A6410; }
+.c-uva { --c: #6A4C9C; } .c-grana { --c: #B3244A; } .c-musgo { --c: #3F7354; }
+@media (prefers-color-scheme: dark) {
+  .c-mar { --c: #7FC3DE; } .c-anil { --c: #9CA6FA; } .c-ocre { --c: #F2C77A; }
+  .c-uva { --c: #C3A8F0; } .c-grana { --c: #F28AA5; } .c-musgo { --c: #8FCBA4; }
+}
+
+/* Recorrido: cada app entra con su hilo (una raya de su color que cruza la sección) y su captura real. */
+.hilo-app { display: grid; grid-template-columns: minmax(0, 0.8fr) minmax(0, 1.6fr); gap: clamp(1.5rem, 4vw, 3.5rem); align-items: center;
+  padding: clamp(2.5rem, 6vw, 4.5rem) 0; position: relative; }
+.hilo-app::before { content: ""; position: absolute; left: 0; right: 0; top: 0; height: 5px; border-radius: 3px;
+  background: var(--c); opacity: 0.85; }
+.hilo-app.invertido { grid-template-columns: minmax(0, 1.6fr) minmax(0, 0.8fr); }
+.hilo-app.invertido .hilo-texto { order: 2; }
+.hilo-nombre { font: 600 0.78rem var(--mono); letter-spacing: 0.08em; text-transform: uppercase; color: var(--c); margin-bottom: 0.6rem; }
+.hilo-texto h3 { font: 600 clamp(1.45rem, 2.4vw, 1.9rem)/1.15 var(--serif); letter-spacing: -0.01em; margin-bottom: 0.8rem; }
+.hilo-texto p:last-child { color: var(--tenue); }
+.hilo-app.con-telefono { padding-bottom: clamp(4.5rem, 8vw, 6.5rem); }
+
 .vitrina { position: relative; padding-right: clamp(3rem, 12vw, 9rem); }
 .ventana { margin: 0; border-radius: 10px; overflow: hidden; border: 1px solid var(--hilo); background: var(--lienzo);
   box-shadow: 0 30px 60px -30px rgb(26 30 54 / 0.35); }
@@ -78,26 +105,20 @@ p { margin: 0; }
 .ventana-barra i { width: 10px; height: 10px; border-radius: 50%; background: var(--hilo); }
 .telefono { position: absolute; right: 0; bottom: -2.5rem; width: clamp(8.5rem, 20vw, 14rem); margin: 0; border-radius: 26px; overflow: hidden;
   border: 7px solid var(--tinta); background: var(--tinta); box-shadow: 0 24px 48px -20px rgb(26 30 54 / 0.45); }
-.hechos { list-style: none; padding: 0; margin: 5rem 0 0; display: grid; grid-template-columns: repeat(3, minmax(0, 1fr)); gap: 2rem; }
-.hechos li { border-top: 2px solid var(--anil); padding-top: 1rem; }
+.hechos { list-style: none; padding: 0; margin: 2rem 0 0; display: grid; grid-template-columns: repeat(3, minmax(0, 1fr)); gap: 2rem; }
+.hechos li { border-top: 3px solid var(--c, var(--anil)); padding-top: 1rem; }
 .hechos p, .hilos p, dd { color: var(--tenue); }
 
 .despues { border-top: 1px solid var(--hilo); }
 .hilos { list-style: none; padding: 0; margin: 0; display: grid; grid-template-columns: repeat(2, minmax(0, 1fr)); gap: 0 3rem; }
 .hilos li { position: relative; padding: 1.25rem 0 1.5rem 1.4rem; border-bottom: 1px solid var(--hilo); }
 .hilos li::before { content: ""; position: absolute; left: 0; top: 1.4rem; bottom: 1.6rem; width: 4px; border-radius: 2px; background: var(--c); }
-.h-anil { --c: #2E3A8C; }
-.h-ocre { --c: #9A6410; }
-.h-mar { --c: #2A6E8A; }
-.h-grana { --c: #B3244A; }
-.h-musgo { --c: #3F7354; }
-.h-uva { --c: #6A4C9C; }
 
 .etapa { font: 500 0.72rem var(--mono); letter-spacing: 0.06em; text-transform: uppercase; color: var(--tenue); }
 .etapa.siguiente { color: var(--grana); }
 
 .cuidado { background: var(--lienzo); border-radius: 14px; max-width: calc(var(--ancho) - 2rem) !important; }
-.cuidado dl { margin: 2.5rem 0 0; display: grid; grid-template-columns: repeat(2, minmax(0, 1fr)); gap: 2rem 3rem; }
+.cuidado dl { margin: 2.5rem 0 0; display: grid; grid-template-columns: repeat(3, minmax(0, 1fr)); gap: 2rem 3rem; }
 dt { font-weight: 600; margin-bottom: 0.3rem; }
 dd { margin: 0; }
 
@@ -110,7 +131,11 @@ dd { margin: 0; }
 @media (max-width: 860px) {
   .portada { grid-template-columns: 1fr; min-height: 0; }
   .barra nav { display: none; }
-  .hechos, .hilos, .cuidado dl, .plataformas { grid-template-columns: 1fr; }
+  .hechos, .hilos, .cuidado dl, .plataformas, .hilo-app { grid-template-columns: 1fr; }
+  .hilo-app.invertido { grid-template-columns: 1fr; }
+  .hilo-app.invertido .hilo-texto { order: 0; }
   .vitrina { padding-right: 4.5rem; }
   .hechos { margin-top: 4rem; }
 }
+
+@media (min-width: 861px) and (max-width: 1100px) { .cuidado dl { grid-template-columns: repeat(2, minmax(0, 1fr)); } }
